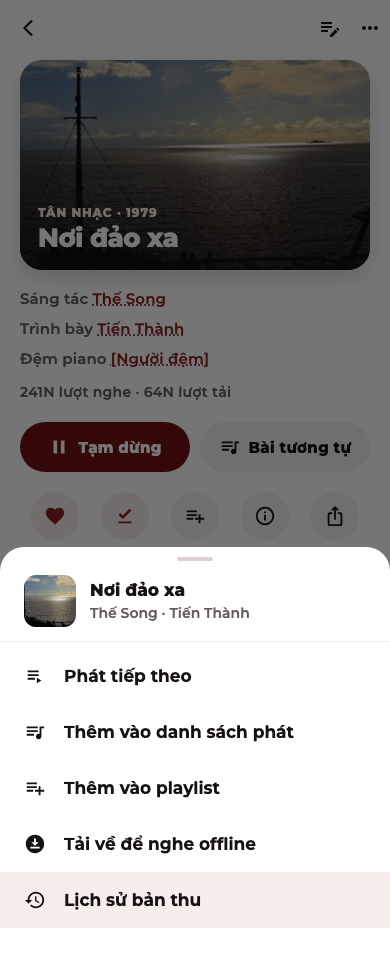
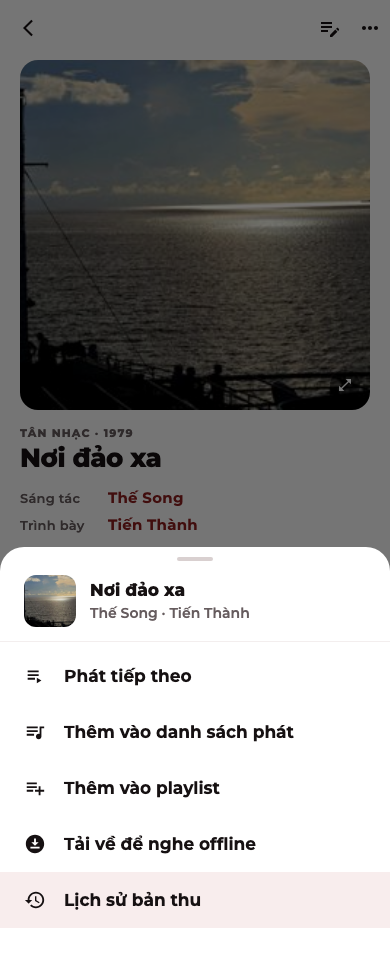
chore(canvas): Chi tiết bài hát khớp app — đầu trang ảnh vuông + tác giả dạng bảng, hàng Thích/Trả lời bình luận như app; dời các hàng dưới xuống 200px

diff --git a/design/canvas/project/BaiHat.dc.html b/design/canvas/project/BaiHat.dc.html
@@ -14,7 +14,7 @@ body{margin:0}
 a{color:#8E1F1F;text-decoration:none}a:hover{color:#711313}
 </style>
 </helmet>
-<div style="width: 390px; height: 4630px; background: #FFFFFF; font-family: Montserrat, sans-serif; letter-spacing: 0.25px; color: #161112; display: flex; flex-direction: column; overflow: hidden">
+<div style="width: 390px; height: 4800px; background: #FFFFFF; font-family: Montserrat, sans-serif; letter-spacing: 0.25px; color: #161112; display: flex; flex-direction: column; overflow: hidden">
 
 <!-- App bar (title appears only after scrolling past the hero) -->
 <div style="height: 56px; flex-shrink: 0; display: flex; align-items: center; justify-content: space-between; padding: 0 0 0 4px">
@@ -27,11 +27,12 @@ a{color:#8E1F1F;text-decoration:none}a:hover{color:#711313}
 
 <div style="padding: 4px 20px 0 20px; display: flex; flex-direction: column">
 
-<!-- Hero (PA7): băng ảnh rộng hết bề ngang, cao 210, gradient tối ở đáy; loại bài + tên (≤3 dòng, quá thì "…") đè lên đáy ảnh -->
-<div style="position: relative; height: 210px; border-radius: 22px; overflow: hidden; box-shadow: 0 8px 20px rgba(0,0,0,0.14)"><img src="/_blob/15d021a625e44f0e9ff37aae395a5ec2" alt="Ảnh bài hát Nơi đảo xa" style="position: absolute; inset: 0; width: 100%; height: 100%; object-fit: cover"><div style="position: absolute; inset: 0; background: linear-gradient(180deg, rgba(22,17,18,0) 30%, rgba(22,17,18,0.82) 100%)"></div><div style="position: absolute; left: 18px; right: 18px; bottom: 16px; display: flex; flex-direction: column"><span style="font-size: 12px; font-weight: 800; letter-spacing: 0.9px; color: #F6E8DE; line-height: 1.25">TÂN NHẠC · 1979</span><span style="margin-top: 4px; font-size: 26px; font-weight: 800; line-height: 1.15; letter-spacing: -0.52px; color: #FFFFFF; display: -webkit-box; -webkit-line-clamp: 3; -webkit-box-orient: vertical; overflow: hidden">Nơi đảo xa</span></div></div>
-
-<!-- Credits: mỗi dòng hết bề ngang, tên dài/nhiều người thì tự xuống dòng -->
-<div style="margin-top: 14px"><div style="font-size: 15px; font-weight: 600; line-height: 26px; padding: 2px 0; letter-spacing: 0.12px; color: #4F4547"><span style="color: #665C5E">Sáng tác </span><a href="NgheSi.dc.html" style="color: #8E1F1F; text-decoration: underline dotted #711313">Thế Song</a></div><div style="font-size: 15px; font-weight: 600; line-height: 26px; padding: 2px 0; letter-spacing: 0.12px; color: #4F4547"><span style="color: #665C5E">Trình bày </span><a href="NgheSi.dc.html" style="color: #8E1F1F; text-decoration: underline dotted #711313">Tiến Thành</a></div><div style="font-size: 15px; font-weight: 600; line-height: 26px; padding: 2px 0; letter-spacing: 0.12px; color: #4F4547"><span style="color: #665C5E">Đệm piano </span><a href="NgheSi.dc.html" style="color: #8E1F1F; text-decoration: underline dotted #711313">[Người đệm]</a></div></div>
+<!-- Đầu trang (chốt 12/11, xem bảng "Bài hát · Phần đầu trang mobile"): ảnh vuông bo 18, không bóng, nút ⤢ góc dưới phải; không có ảnh → bìa đỏ rượu có rãnh đĩa than. Dòng trên: loại · năm · ghi chú; tên bài 26; tác giả dạng bảng, không gạch chân -->
+<div style="position: relative; width: 350px; height: 350px; border-radius: 18px; overflow: hidden"><img src="/_blob/15d021a625e44f0e9ff37aae395a5ec2" alt="Ảnh bài hát Nơi đảo xa" style="width: 100%; height: 100%; object-fit: cover; display: block"><span style="position: absolute; right: 10px; bottom: 10px; width: 30px; height: 30px; border-radius: 15px; background: rgba(0,0,0,.45); display: flex; align-items: center; justify-content: center"><svg width="16" height="16" viewBox="0 0 24 24" fill="#fff" aria-hidden="true"><path d="M21 11V3h-8l3.29 3.29-10 10L3 13v8h8l-3.29-3.29 10-10z"></path></svg></span></div>
+<div style="margin-top: 16px; font-size: 11px; font-weight: 800; letter-spacing: 1.1px; color: #665C5E">TÂN NHẠC · 1979</div>
+<div style="margin-top: 4px; font-size: 26px; font-weight: 800; line-height: 1.15; letter-spacing: -0.4px; color: #161112">Nơi đảo xa</div>
+<!-- Credits: bảng 2 cột (nhãn 78px · tên), tên dài/nhiều người tự xuống dòng -->
+<div style="margin-top: 10px"><div style="display: flex; align-items: flex-start; gap: 10px; padding: 3px 0"><span style="width: 78px; flex-shrink: 0; padding-top: 3px; font-size: 13px; font-weight: 600; color: #665C5E">Sáng tác</span><a href="NgheSi.dc.html" style="flex: 1; min-width: 0; font-size: 15px; font-weight: 700; line-height: 1.4; color: #8E1F1F; text-decoration: none">Thế Song</a></div><div style="display: flex; align-items: flex-start; gap: 10px; padding: 3px 0"><span style="width: 78px; flex-shrink: 0; padding-top: 3px; font-size: 13px; font-weight: 600; color: #665C5E">Trình bày</span><a href="NgheSi.dc.html" style="flex: 1; min-width: 0; font-size: 15px; font-weight: 700; line-height: 1.4; color: #8E1F1F; text-decoration: none">Tiến Thành</a></div></div>
 <div style="margin-top: 8px; font-size: 14px; font-weight: 600; line-height: 1.45; color: #665C5E">241N lượt nghe · 64N lượt tải</div><!-- Nguồn, người đóng góp, ngày đăng… ở ⋯ → "Thông tin bài hát" -->
 
 <!-- Primary buttons -->
@@ -139,9 +140,9 @@ a{color:#8E1F1F;text-decoration:none}a:hover{color:#711313}
 <button style="margin-left: 6px; min-width: 64px; min-height: 40px; padding: 0 16px; border-radius: 24px; border: none; background: #711313; color: #FFFFFF; font-family: Montserrat, sans-serif; letter-spacing: 0.25px; font-size: 16px; font-weight: 700; display: flex; align-items: center; gap: 8px; flex-shrink: 0"><svg width="18" height="18" viewBox="0 0 24 24" fill="currentColor" aria-hidden="true"><path d="M2.01 21L23 12 2.01 3 2 10l15 2-15 2z"></path></svg>Đăng</button>
 </div>
 <div style="margin-top: 21.5px">
-<div style="display: flex; align-items: flex-start; margin-bottom: 19px"><a href="ThanhVien.dc.html" aria-label="Xuân Hương"><span aria-hidden="true" style="width: 36px; height: 36px; border-radius: 18px; flex-shrink: 0; background: linear-gradient(135deg, #4A0C0C, #8E1F1F); color: #FFFFFF; display: flex; align-items: center; justify-content: center; font-size: 15px; font-weight: 800">X</span></a><div style="flex: 1; min-width: 0; margin-left: 10px"><div style="display: flex; flex-wrap: wrap; align-items: center; gap: 4px 6px"><a href="ThanhVien.dc.html" style="font-size: 15px; font-weight: 700; color: #161112">Xuân Hương</a><span style="font-size: 13px; font-weight: 600; color: #665C5E">4 tháng trước</span></div><div style="margin-top: 7.5px; font-size: 16px; line-height: 1.5; color: #161112">Chất giọng đẹp cùng cách thể hiện rất tha thiết, Nơi đảo xa của NS Tiến Thành vẫn là khúc ca hay nhất, xúc động nhất về mảnh đất thiêng liêng của Tổ quốc. Đối với những người đã từng nghe anh hát thời đó, bài hát còn gợi về một thời kì đã xa, thời mà hình ảnh người lính vô cùng đẹp đẽ.</div><div style="margin-top: 11px; display: flex; align-items: center"><button style="min-height: 48px; min-width: 48px; padding: 0 6px; border: none; background: transparent; font-family: Montserrat, sans-serif; letter-spacing: 0.25px; display: flex; align-items: center; gap: 6px; font-size: 14px; font-weight: 600; color: #4F4547"><svg width="20" height="20" viewBox="0 0 24 24" fill="#665C5E" aria-hidden="true"><path d="M16.5 3c-1.74 0-3.41.81-4.5 2.09C10.91 3.81 9.24 3 7.5 3 4.42 3 2 5.42 2 8.5c0 3.78 3.4 6.86 8.55 11.54L12 21.35l1.45-1.32C18.6 15.36 22 12.28 22 8.5 22 5.42 19.58 3 16.5 3zm-4.4 15.55l-.1.1-.1-.1C7.14 14.24 4 11.39 4 8.5 4 6.5 5.5 5 7.5 5c1.54 0 3.04.99 3.57 2.36h1.87C13.46 5.99 14.96 5 16.5 5c2 0 3.5 1.5 3.5 3.5 0 2.89-3.14 5.74-7.9 10.05z"></path></svg>Thích</button><button style="min-height: 48px; min-width: 48px; padding: 0 6px; border: none; background: transparent; font-family: Montserrat, sans-serif; letter-spacing: 0.25px; display: flex; align-items: center; gap: 6px; font-size: 14px; font-weight: 600; color: #4F4547"><svg width="20" height="20" viewBox="0 0 24 24" fill="#665C5E" aria-hidden="true"><path d="M10 9V5l-7 7 7 7v-4.1c5 0 8.5 1.6 11 5.1-1-5-4-10-11-11z"></path></svg>Trả lời</button><span style="flex: 1"></span><button aria-label="Tuỳ chọn bình luận" style="width: 48px; height: 48px; border: none; background: transparent; padding: 0; display: flex; align-items: center; justify-content: center; color: #665C5E"><svg width="22" height="22" viewBox="0 0 24 24" fill="currentColor" aria-hidden="true"><path d="M12 8c1.1 0 2-.9 2-2s-.9-2-2-2-2 .9-2 2 .9 2 2 2zm0 2c-1.1 0-2 .9-2 2s.9 2 2 2 2-.9 2-2-.9-2-2-2zm0 6c-1.1 0-2 .9-2 2s.9 2 2 2 2-.9 2-2-.9-2-2-2z"></path></svg></button></div></div></div>
-<div style="display: flex; align-items: flex-start; margin-bottom: 19px"><a href="ThanhVien.dc.html" aria-label="Monsieur Theodore"><span aria-hidden="true" style="width: 36px; height: 36px; border-radius: 18px; flex-shrink: 0; background: linear-gradient(135deg, #4A0C0C, #8E1F1F); color: #FFFFFF; display: flex; align-items: center; justify-content: center; font-size: 15px; font-weight: 800">M</span></a><div style="flex: 1; min-width: 0; margin-left: 10px"><div style="display: flex; flex-wrap: wrap; align-items: center; gap: 4px 6px"><a href="ThanhVien.dc.html" style="font-size: 15px; font-weight: 700; color: #161112">Monsieur Theodore</a><span style="font-size: 13px; font-weight: 600; color: #665C5E">4 tháng trước</span></div><div style="margin-top: 11px; font-size: 16px; line-height: 1.5; color: #161112"><span role="img" aria-label="Ảnh bản nhạc viết tay Nơi đảo xa" style="display: block; width: 134px; height: 200px; border-radius: 10px; background: #EDE9E8 repeating-linear-gradient(180deg, transparent 0 9px, #CFC6C6 9px 10px); margin: 2px 0"></span></div><div style="margin-top: 11px; display: flex; align-items: center"><button style="min-height: 48px; min-width: 48px; padding: 0 6px; border: none; background: transparent; font-family: Montserrat, sans-serif; letter-spacing: 0.25px; display: flex; align-items: center; gap: 6px; font-size: 14px; font-weight: 600; color: #4F4547"><svg width="20" height="20" viewBox="0 0 24 24" fill="#665C5E" aria-hidden="true"><path d="M16.5 3c-1.74 0-3.41.81-4.5 2.09C10.91 3.81 9.24 3 7.5 3 4.42 3 2 5.42 2 8.5c0 3.78 3.4 6.86 8.55 11.54L12 21.35l1.45-1.32C18.6 15.36 22 12.28 22 8.5 22 5.42 19.58 3 16.5 3zm-4.4 15.55l-.1.1-.1-.1C7.14 14.24 4 11.39 4 8.5 4 6.5 5.5 5 7.5 5c1.54 0 3.04.99 3.57 2.36h1.87C13.46 5.99 14.96 5 16.5 5c2 0 3.5 1.5 3.5 3.5 0 2.89-3.14 5.74-7.9 10.05z"></path></svg>Thích</button><button style="min-height: 48px; min-width: 48px; padding: 0 6px; border: none; background: transparent; font-family: Montserrat, sans-serif; letter-spacing: 0.25px; display: flex; align-items: center; gap: 6px; font-size: 14px; font-weight: 600; color: #4F4547"><svg width="20" height="20" viewBox="0 0 24 24" fill="#665C5E" aria-hidden="true"><path d="M10 9V5l-7 7 7 7v-4.1c5 0 8.5 1.6 11 5.1-1-5-4-10-11-11z"></path></svg>Trả lời</button><span style="flex: 1"></span><button aria-label="Tuỳ chọn bình luận" style="width: 48px; height: 48px; border: none; background: transparent; padding: 0; display: flex; align-items: center; justify-content: center; color: #665C5E"><svg width="22" height="22" viewBox="0 0 24 24" fill="currentColor" aria-hidden="true"><path d="M12 8c1.1 0 2-.9 2-2s-.9-2-2-2-2 .9-2 2 .9 2 2 2zm0 2c-1.1 0-2 .9-2 2s.9 2 2 2 2-.9 2-2-.9-2-2-2zm0 6c-1.1 0-2 .9-2 2s.9 2 2 2 2-.9 2-2-.9-2-2-2z"></path></svg></button></div></div></div>
-<div style="display: flex; align-items: flex-start; margin-bottom: 19px"><a href="ThanhVien.dc.html" aria-label="lahongthang"><span aria-hidden="true" style="width: 36px; height: 36px; border-radius: 18px; flex-shrink: 0; background: #EDE9E8; display: flex; align-items: center; justify-content: center"><svg width="16" height="16" viewBox="0 0 24 24" fill="#665C5E" aria-hidden="true"><path d="M12 12c2.21 0 4-1.79 4-4s-1.79-4-4-4-4 1.79-4 4 1.79 4 4 4zm0 2c-2.67 0-8 1.34-8 4v2h16v-2c0-2.66-5.33-4-8-4z"></path></svg></span></a><div style="flex: 1; min-width: 0; margin-left: 10px"><div style="display: flex; flex-wrap: wrap; align-items: center; gap: 4px 6px"><a href="ThanhVien.dc.html" style="font-size: 15px; font-weight: 700; color: #161112">lahongthang</a><span style="font-size: 13px; font-weight: 600; color: #665C5E">7 tháng trước</span></div><div style="margin-top: 7.5px; font-size: 16px; line-height: 1.5; color: #161112">Bây giờ bài này có rất nhiều phiên bản… [Nội dung bình luận]</div><div style="margin-top: 11px; display: flex; align-items: center"><button style="min-height: 48px; min-width: 48px; padding: 0 6px; border: none; background: transparent; font-family: Montserrat, sans-serif; letter-spacing: 0.25px; display: flex; align-items: center; gap: 6px; font-size: 14px; font-weight: 600; color: #4F4547"><svg width="20" height="20" viewBox="0 0 24 24" fill="#665C5E" aria-hidden="true"><path d="M16.5 3c-1.74 0-3.41.81-4.5 2.09C10.91 3.81 9.24 3 7.5 3 4.42 3 2 5.42 2 8.5c0 3.78 3.4 6.86 8.55 11.54L12 21.35l1.45-1.32C18.6 15.36 22 12.28 22 8.5 22 5.42 19.58 3 16.5 3zm-4.4 15.55l-.1.1-.1-.1C7.14 14.24 4 11.39 4 8.5 4 6.5 5.5 5 7.5 5c1.54 0 3.04.99 3.57 2.36h1.87C13.46 5.99 14.96 5 16.5 5c2 0 3.5 1.5 3.5 3.5 0 2.89-3.14 5.74-7.9 10.05z"></path></svg>Thích</button><button style="min-height: 48px; min-width: 48px; padding: 0 6px; border: none; background: transparent; font-family: Montserrat, sans-serif; letter-spacing: 0.25px; display: flex; align-items: center; gap: 6px; font-size: 14px; font-weight: 600; color: #4F4547"><svg width="20" height="20" viewBox="0 0 24 24" fill="#665C5E" aria-hidden="true"><path d="M10 9V5l-7 7 7 7v-4.1c5 0 8.5 1.6 11 5.1-1-5-4-10-11-11z"></path></svg>Trả lời</button><span style="flex: 1"></span><button aria-label="Tuỳ chọn bình luận" style="width: 48px; height: 48px; border: none; background: transparent; padding: 0; display: flex; align-items: center; justify-content: center; color: #665C5E"><svg width="22" height="22" viewBox="0 0 24 24" fill="currentColor" aria-hidden="true"><path d="M12 8c1.1 0 2-.9 2-2s-.9-2-2-2-2 .9-2 2 .9 2 2 2zm0 2c-1.1 0-2 .9-2 2s.9 2 2 2 2-.9 2-2-.9-2-2-2zm0 6c-1.1 0-2 .9-2 2s.9 2 2 2 2-.9 2-2-.9-2-2-2z"></path></svg></button></div></div></div>
+<div style="display: flex; align-items: flex-start; margin-bottom: 19px"><a href="ThanhVien.dc.html" aria-label="Xuân Hương"><span aria-hidden="true" style="width: 36px; height: 36px; border-radius: 18px; flex-shrink: 0; background: linear-gradient(135deg, #4A0C0C, #8E1F1F); color: #FFFFFF; display: flex; align-items: center; justify-content: center; font-size: 15px; font-weight: 800">X</span></a><div style="flex: 1; min-width: 0; margin-left: 10px"><div style="display: flex; flex-wrap: wrap; align-items: center; gap: 4px 6px"><a href="ThanhVien.dc.html" style="font-size: 15px; font-weight: 700; color: #161112">Xuân Hương</a><span style="font-size: 13px; font-weight: 600; color: #665C5E">4 tháng trước</span></div><div style="margin-top: 7.5px; font-size: 16px; line-height: 1.5; color: #161112">Chất giọng đẹp cùng cách thể hiện rất tha thiết, Nơi đảo xa của NS Tiến Thành vẫn là khúc ca hay nhất, xúc động nhất về mảnh đất thiêng liêng của Tổ quốc. Đối với những người đã từng nghe anh hát thời đó, bài hát còn gợi về một thời kì đã xa, thời mà hình ảnh người lính vô cùng đẹp đẽ.</div><div style="margin-top: 11px; display: flex; align-items: center"><button style="min-height: 48px; min-width: 48px; padding: 0 6px; border: none; background: transparent; font-family: Montserrat, sans-serif; letter-spacing: 0.25px; display: flex; align-items: center; gap: 6px; font-size: 14px; font-weight: 600; color: #4F4547"><svg width="17" height="17" viewBox="0 0 24 24" fill="#665C5E" aria-hidden="true"><path d="M16.5 3c-1.74 0-3.41.81-4.5 2.09C10.91 3.81 9.24 3 7.5 3 4.42 3 2 5.42 2 8.5c0 3.78 3.4 6.86 8.55 11.54L12 21.35l1.45-1.32C18.6 15.36 22 12.28 22 8.5 22 5.42 19.58 3 16.5 3zm-4.4 15.55l-.1.1-.1-.1C7.14 14.24 4 11.39 4 8.5 4 6.5 5.5 5 7.5 5c1.54 0 3.04.99 3.57 2.36h1.87C13.46 5.99 14.96 5 16.5 5c2 0 3.5 1.5 3.5 3.5 0 2.89-3.14 5.74-7.9 10.05z"></path></svg></button><button style="min-height: 48px; min-width: 48px; padding: 0 6px; border: none; background: transparent; font-family: Montserrat, sans-serif; letter-spacing: 0.25px; display: flex; align-items: center; gap: 6px; font-size: 14px; font-weight: 600; color: #4F4547"><span style="font-weight: 700">Trả lời</span></button><span style="flex: 1"></span><button aria-label="Tuỳ chọn bình luận" style="width: 48px; height: 48px; border: none; background: transparent; padding: 0; display: flex; align-items: center; justify-content: center; color: #665C5E"><svg width="22" height="22" viewBox="0 0 24 24" fill="currentColor" aria-hidden="true"><path d="M12 8c1.1 0 2-.9 2-2s-.9-2-2-2-2 .9-2 2 .9 2 2 2zm0 2c-1.1 0-2 .9-2 2s.9 2 2 2 2-.9 2-2-.9-2-2-2zm0 6c-1.1 0-2 .9-2 2s.9 2 2 2 2-.9 2-2-.9-2-2-2z"></path></svg></button></div></div></div>
+<div style="display: flex; align-items: flex-start; margin-bottom: 19px"><a href="ThanhVien.dc.html" aria-label="Monsieur Theodore"><span aria-hidden="true" style="width: 36px; height: 36px; border-radius: 18px; flex-shrink: 0; background: linear-gradient(135deg, #4A0C0C, #8E1F1F); color: #FFFFFF; display: flex; align-items: center; justify-content: center; font-size: 15px; font-weight: 800">M</span></a><div style="flex: 1; min-width: 0; margin-left: 10px"><div style="display: flex; flex-wrap: wrap; align-items: center; gap: 4px 6px"><a href="ThanhVien.dc.html" style="font-size: 15px; font-weight: 700; color: #161112">Monsieur Theodore</a><span style="font-size: 13px; font-weight: 600; color: #665C5E">4 tháng trước</span></div><div style="margin-top: 11px; font-size: 16px; line-height: 1.5; color: #161112"><span role="img" aria-label="Ảnh bản nhạc viết tay Nơi đảo xa" style="display: block; width: 134px; height: 200px; border-radius: 10px; background: #EDE9E8 repeating-linear-gradient(180deg, transparent 0 9px, #CFC6C6 9px 10px); margin: 2px 0"></span></div><div style="margin-top: 11px; display: flex; align-items: center"><button style="min-height: 48px; min-width: 48px; padding: 0 6px; border: none; background: transparent; font-family: Montserrat, sans-serif; letter-spacing: 0.25px; display: flex; align-items: center; gap: 6px; font-size: 14px; font-weight: 600; color: #4F4547"><svg width="17" height="17" viewBox="0 0 24 24" fill="#665C5E" aria-hidden="true"><path d="M16.5 3c-1.74 0-3.41.81-4.5 2.09C10.91 3.81 9.24 3 7.5 3 4.42 3 2 5.42 2 8.5c0 3.78 3.4 6.86 8.55 11.54L12 21.35l1.45-1.32C18.6 15.36 22 12.28 22 8.5 22 5.42 19.58 3 16.5 3zm-4.4 15.55l-.1.1-.1-.1C7.14 14.24 4 11.39 4 8.5 4 6.5 5.5 5 7.5 5c1.54 0 3.04.99 3.57 2.36h1.87C13.46 5.99 14.96 5 16.5 5c2 0 3.5 1.5 3.5 3.5 0 2.89-3.14 5.74-7.9 10.05z"></path></svg></button><button style="min-height: 48px; min-width: 48px; padding: 0 6px; border: none; background: transparent; font-family: Montserrat, sans-serif; letter-spacing: 0.25px; display: flex; align-items: center; gap: 6px; font-size: 14px; font-weight: 600; color: #4F4547"><span style="font-weight: 700">Trả lời</span></button><span style="flex: 1"></span><button aria-label="Tuỳ chọn bình luận" style="width: 48px; height: 48px; border: none; background: transparent; padding: 0; display: flex; align-items: center; justify-content: center; color: #665C5E"><svg width="22" height="22" viewBox="0 0 24 24" fill="currentColor" aria-hidden="true"><path d="M12 8c1.1 0 2-.9 2-2s-.9-2-2-2-2 .9-2 2 .9 2 2 2zm0 2c-1.1 0-2 .9-2 2s.9 2 2 2 2-.9 2-2-.9-2-2-2zm0 6c-1.1 0-2 .9-2 2s.9 2 2 2 2-.9 2-2-.9-2-2-2z"></path></svg></button></div></div></div>
+<div style="display: flex; align-items: flex-start; margin-bottom: 19px"><a href="ThanhVien.dc.html" aria-label="lahongthang"><span aria-hidden="true" style="width: 36px; height: 36px; border-radius: 18px; flex-shrink: 0; background: #EDE9E8; display: flex; align-items: center; justify-content: center"><svg width="16" height="16" viewBox="0 0 24 24" fill="#665C5E" aria-hidden="true"><path d="M12 12c2.21 0 4-1.79 4-4s-1.79-4-4-4-4 1.79-4 4 1.79 4 4 4zm0 2c-2.67 0-8 1.34-8 4v2h16v-2c0-2.66-5.33-4-8-4z"></path></svg></span></a><div style="flex: 1; min-width: 0; margin-left: 10px"><div style="display: flex; flex-wrap: wrap; align-items: center; gap: 4px 6px"><a href="ThanhVien.dc.html" style="font-size: 15px; font-weight: 700; color: #161112">lahongthang</a><span style="font-size: 13px; font-weight: 600; color: #665C5E">7 tháng trước</span></div><div style="margin-top: 7.5px; font-size: 16px; line-height: 1.5; color: #161112">Bây giờ bài này có rất nhiều phiên bản… [Nội dung bình luận]</div><div style="margin-top: 11px; display: flex; align-items: center"><button style="min-height: 48px; min-width: 48px; padding: 0 6px; border: none; background: transparent; font-family: Montserrat, sans-serif; letter-spacing: 0.25px; display: flex; align-items: center; gap: 6px; font-size: 14px; font-weight: 600; color: #4F4547"><svg width="17" height="17" viewBox="0 0 24 24" fill="#665C5E" aria-hidden="true"><path d="M16.5 3c-1.74 0-3.41.81-4.5 2.09C10.91 3.81 9.24 3 7.5 3 4.42 3 2 5.42 2 8.5c0 3.78 3.4 6.86 8.55 11.54L12 21.35l1.45-1.32C18.6 15.36 22 12.28 22 8.5 22 5.42 19.58 3 16.5 3zm-4.4 15.55l-.1.1-.1-.1C7.14 14.24 4 11.39 4 8.5 4 6.5 5.5 5 7.5 5c1.54 0 3.04.99 3.57 2.36h1.87C13.46 5.99 14.96 5 16.5 5c2 0 3.5 1.5 3.5 3.5 0 2.89-3.14 5.74-7.9 10.05z"></path></svg></button><button style="min-height: 48px; min-width: 48px; padding: 0 6px; border: none; background: transparent; font-family: Montserrat, sans-serif; letter-spacing: 0.25px; display: flex; align-items: center; gap: 6px; font-size: 14px; font-weight: 600; color: #4F4547"><span style="font-weight: 700">Trả lời</span></button><span style="flex: 1"></span><button aria-label="Tuỳ chọn bình luận" style="width: 48px; height: 48px; border: none; background: transparent; padding: 0; display: flex; align-items: center; justify-content: center; color: #665C5E"><svg width="22" height="22" viewBox="0 0 24 24" fill="currentColor" aria-hidden="true"><path d="M12 8c1.1 0 2-.9 2-2s-.9-2-2-2-2 .9-2 2 .9 2 2 2zm0 2c-1.1 0-2 .9-2 2s.9 2 2 2 2-.9 2-2-.9-2-2-2zm0 6c-1.1 0-2 .9-2 2s.9 2 2 2 2-.9 2-2-.9-2-2-2z"></path></svg></button></div></div></div>
 </div>
 <button style="margin-top: 8px; width: 100%; height: 50px; border-radius: 25px; border: none; background: #F4F1F0; color: #161112; font-family: Montserrat, sans-serif; letter-spacing: 0.25px; font-size: 15px; font-weight: 800">Xem thêm bình luận (97)</button>
 </div>
@@ -153,7 +154,7 @@ a{color:#8E1F1F;text-decoration:none}a:hover{color:#711313}
 <dc-import name="TabBar" active="home" hint-size="390px,61px"></dc-import>
 </div>
 </x-dc>
-<script type="text/x-dc" data-dc-script data-props='{"$preview":{"width":390,"height":4630}}'>
+<script type="text/x-dc" data-dc-script data-props='{"$preview":{"width":390,"height":4800}}'>
 class Component extends DCLogic {
 renderVals() {
 return {};

diff --git a/design/canvas/project/BaiHat_Menu.dc.html b/design/canvas/project/BaiHat_Menu.dc.html
@@ -30,11 +30,12 @@ a{color:#8E1F1F;text-decoration:none}a:hover{color:#711313}
 
 <div style="padding: 4px 20px 0 20px; display: flex; flex-direction: column">
 
-<!-- Hero (PA7): băng ảnh rộng hết bề ngang, cao 210, gradient tối ở đáy; loại bài + tên (≤3 dòng, quá thì "…") đè lên đáy ảnh -->
-<div style="position: relative; height: 210px; border-radius: 22px; overflow: hidden; box-shadow: 0 8px 20px rgba(0,0,0,0.14)"><img src="/_blob/15d021a625e44f0e9ff37aae395a5ec2" alt="Ảnh bài hát Nơi đảo xa" style="position: absolute; inset: 0; width: 100%; height: 100%; object-fit: cover"><div style="position: absolute; inset: 0; background: linear-gradient(180deg, rgba(22,17,18,0) 30%, rgba(22,17,18,0.82) 100%)"></div><div style="position: absolute; left: 18px; right: 18px; bottom: 16px; display: flex; flex-direction: column"><span style="font-size: 12px; font-weight: 800; letter-spacing: 0.9px; color: #F6E8DE; line-height: 1.25">TÂN NHẠC · 1979</span><span style="margin-top: 4px; font-size: 26px; font-weight: 800; line-height: 1.15; letter-spacing: -0.52px; color: #FFFFFF; display: -webkit-box; -webkit-line-clamp: 3; -webkit-box-orient: vertical; overflow: hidden">Nơi đảo xa</span></div></div>
-
-<!-- Credits: mỗi dòng hết bề ngang, tên dài/nhiều người thì tự xuống dòng -->
-<div style="margin-top: 14px"><div style="font-size: 15px; font-weight: 600; line-height: 26px; padding: 2px 0; letter-spacing: 0.12px; color: #4F4547"><span style="color: #665C5E">Sáng tác </span><a href="NgheSi.dc.html" style="color: #8E1F1F; text-decoration: underline dotted #711313">Thế Song</a></div><div style="font-size: 15px; font-weight: 600; line-height: 26px; padding: 2px 0; letter-spacing: 0.12px; color: #4F4547"><span style="color: #665C5E">Trình bày </span><a href="NgheSi.dc.html" style="color: #8E1F1F; text-decoration: underline dotted #711313">Tiến Thành</a></div><div style="font-size: 15px; font-weight: 600; line-height: 26px; padding: 2px 0; letter-spacing: 0.12px; color: #4F4547"><span style="color: #665C5E">Đệm piano </span><a href="NgheSi.dc.html" style="color: #8E1F1F; text-decoration: underline dotted #711313">[Người đệm]</a></div></div>
+<!-- Đầu trang (chốt 12/11, xem bảng "Bài hát · Phần đầu trang mobile"): ảnh vuông bo 18, không bóng, nút ⤢ góc dưới phải; không có ảnh → bìa đỏ rượu có rãnh đĩa than. Dòng trên: loại · năm · ghi chú; tên bài 26; tác giả dạng bảng, không gạch chân -->
+<div style="position: relative; width: 350px; height: 350px; border-radius: 18px; overflow: hidden"><img src="/_blob/15d021a625e44f0e9ff37aae395a5ec2" alt="Ảnh bài hát Nơi đảo xa" style="width: 100%; height: 100%; object-fit: cover; display: block"><span style="position: absolute; right: 10px; bottom: 10px; width: 30px; height: 30px; border-radius: 15px; background: rgba(0,0,0,.45); display: flex; align-items: center; justify-content: center"><svg width="16" height="16" viewBox="0 0 24 24" fill="#fff" aria-hidden="true"><path d="M21 11V3h-8l3.29 3.29-10 10L3 13v8h8l-3.29-3.29 10-10z"></path></svg></span></div>
+<div style="margin-top: 16px; font-size: 11px; font-weight: 800; letter-spacing: 1.1px; color: #665C5E">TÂN NHẠC · 1979</div>
+<div style="margin-top: 4px; font-size: 26px; font-weight: 800; line-height: 1.15; letter-spacing: -0.4px; color: #161112">Nơi đảo xa</div>
+<!-- Credits: bảng 2 cột (nhãn 78px · tên), tên dài/nhiều người tự xuống dòng -->
+<div style="margin-top: 10px"><div style="display: flex; align-items: flex-start; gap: 10px; padding: 3px 0"><span style="width: 78px; flex-shrink: 0; padding-top: 3px; font-size: 13px; font-weight: 600; color: #665C5E">Sáng tác</span><a href="NgheSi.dc.html" style="flex: 1; min-width: 0; font-size: 15px; font-weight: 700; line-height: 1.4; color: #8E1F1F; text-decoration: none">Thế Song</a></div><div style="display: flex; align-items: flex-start; gap: 10px; padding: 3px 0"><span style="width: 78px; flex-shrink: 0; padding-top: 3px; font-size: 13px; font-weight: 600; color: #665C5E">Trình bày</span><a href="NgheSi.dc.html" style="flex: 1; min-width: 0; font-size: 15px; font-weight: 700; line-height: 1.4; color: #8E1F1F; text-decoration: none">Tiến Thành</a></div></div>
 <div style="margin-top: 8px; font-size: 14px; font-weight: 600; line-height: 1.45; color: #665C5E">241N lượt nghe · 64N lượt tải</div><!-- Nguồn, người đóng góp, ngày đăng… ở ⋯ → "Thông tin bài hát" -->
 
 <!-- Primary buttons -->
@@ -142,9 +143,9 @@ a{color:#8E1F1F;text-decoration:none}a:hover{color:#711313}
 <button style="margin-left: 6px; min-width: 64px; min-height: 40px; padding: 0 16px; border-radius: 24px; border: none; background: #711313; color: #FFFFFF; font-family: Montserrat, sans-serif; letter-spacing: 0.25px; font-size: 16px; font-weight: 700; display: flex; align-items: center; gap: 8px; flex-shrink: 0"><svg width="18" height="18" viewBox="0 0 24 24" fill="currentColor" aria-hidden="true"><path d="M2.01 21L23 12 2.01 3 2 10l15 2-15 2z"></path></svg>Đăng</button>
 </div>
 <div style="margin-top: 21.5px">
-<div style="display: flex; align-items: flex-start; margin-bottom: 19px"><a href="ThanhVien.dc.html" aria-label="Xuân Hương"><span aria-hidden="true" style="width: 36px; height: 36px; border-radius: 18px; flex-shrink: 0; background: linear-gradient(135deg, #4A0C0C, #8E1F1F); color: #FFFFFF; display: flex; align-items: center; justify-content: center; font-size: 15px; font-weight: 800">X</span></a><div style="flex: 1; min-width: 0; margin-left: 10px"><div style="display: flex; flex-wrap: wrap; align-items: center; gap: 4px 6px"><a href="ThanhVien.dc.html" style="font-size: 15px; font-weight: 700; color: #161112">Xuân Hương</a><span style="font-size: 13px; font-weight: 600; color: #665C5E">4 tháng trước</span></div><div style="margin-top: 7.5px; font-size: 16px; line-height: 1.5; color: #161112">Chất giọng đẹp cùng cách thể hiện rất tha thiết, Nơi đảo xa của NS Tiến Thành vẫn là khúc ca hay nhất, xúc động nhất về mảnh đất thiêng liêng của Tổ quốc. Đối với những người đã từng nghe anh hát thời đó, bài hát còn gợi về một thời kì đã xa, thời mà hình ảnh người lính vô cùng đẹp đẽ.</div><div style="margin-top: 11px; display: flex; align-items: center"><button style="min-height: 48px; min-width: 48px; padding: 0 6px; border: none; background: transparent; font-family: Montserrat, sans-serif; letter-spacing: 0.25px; display: flex; align-items: center; gap: 6px; font-size: 14px; font-weight: 600; color: #4F4547"><svg width="20" height="20" viewBox="0 0 24 24" fill="#665C5E" aria-hidden="true"><path d="M16.5 3c-1.74 0-3.41.81-4.5 2.09C10.91 3.81 9.24 3 7.5 3 4.42 3 2 5.42 2 8.5c0 3.78 3.4 6.86 8.55 11.54L12 21.35l1.45-1.32C18.6 15.36 22 12.28 22 8.5 22 5.42 19.58 3 16.5 3zm-4.4 15.55l-.1.1-.1-.1C7.14 14.24 4 11.39 4 8.5 4 6.5 5.5 5 7.5 5c1.54 0 3.04.99 3.57 2.36h1.87C13.46 5.99 14.96 5 16.5 5c2 0 3.5 1.5 3.5 3.5 0 2.89-3.14 5.74-7.9 10.05z"></path></svg>Thích</button><button style="min-height: 48px; min-width: 48px; padding: 0 6px; border: none; background: transparent; font-family: Montserrat, sans-serif; letter-spacing: 0.25px; display: flex; align-items: center; gap: 6px; font-size: 14px; font-weight: 600; color: #4F4547"><svg width="20" height="20" viewBox="0 0 24 24" fill="#665C5E" aria-hidden="true"><path d="M10 9V5l-7 7 7 7v-4.1c5 0 8.5 1.6 11 5.1-1-5-4-10-11-11z"></path></svg>Trả lời</button><span style="flex: 1"></span><button aria-label="Tuỳ chọn bình luận" style="width: 48px; height: 48px; border: none; background: transparent; padding: 0; display: flex; align-items: center; justify-content: center; color: #665C5E"><svg width="22" height="22" viewBox="0 0 24 24" fill="currentColor" aria-hidden="true"><path d="M12 8c1.1 0 2-.9 2-2s-.9-2-2-2-2 .9-2 2 .9 2 2 2zm0 2c-1.1 0-2 .9-2 2s.9 2 2 2 2-.9 2-2-.9-2-2-2zm0 6c-1.1 0-2 .9-2 2s.9 2 2 2 2-.9 2-2-.9-2-2-2z"></path></svg></button></div></div></div>
-<div style="display: flex; align-items: flex-start; margin-bottom: 19px"><a href="ThanhVien.dc.html" aria-label="Monsieur Theodore"><span aria-hidden="true" style="width: 36px; height: 36px; border-radius: 18px; flex-shrink: 0; background: linear-gradient(135deg, #4A0C0C, #8E1F1F); color: #FFFFFF; display: flex; align-items: center; justify-content: center; font-size: 15px; font-weight: 800">M</span></a><div style="flex: 1; min-width: 0; margin-left: 10px"><div style="display: flex; flex-wrap: wrap; align-items: center; gap: 4px 6px"><a href="ThanhVien.dc.html" style="font-size: 15px; font-weight: 700; color: #161112">Monsieur Theodore</a><span style="font-size: 13px; font-weight: 600; color: #665C5E">4 tháng trước</span></div><div style="margin-top: 11px; font-size: 16px; line-height: 1.5; color: #161112"><span role="img" aria-label="Ảnh bản nhạc viết tay Nơi đảo xa" style="display: block; width: 134px; height: 200px; border-radius: 10px; background: #EDE9E8 repeating-linear-gradient(180deg, transparent 0 9px, #CFC6C6 9px 10px); margin: 2px 0"></span></div><div style="margin-top: 11px; display: flex; align-items: center"><button style="min-height: 48px; min-width: 48px; padding: 0 6px; border: none; background: transparent; font-family: Montserrat, sans-serif; letter-spacing: 0.25px; display: flex; align-items: center; gap: 6px; font-size: 14px; font-weight: 600; color: #4F4547"><svg width="20" height="20" viewBox="0 0 24 24" fill="#665C5E" aria-hidden="true"><path d="M16.5 3c-1.74 0-3.41.81-4.5 2.09C10.91 3.81 9.24 3 7.5 3 4.42 3 2 5.42 2 8.5c0 3.78 3.4 6.86 8.55 11.54L12 21.35l1.45-1.32C18.6 15.36 22 12.28 22 8.5 22 5.42 19.58 3 16.5 3zm-4.4 15.55l-.1.1-.1-.1C7.14 14.24 4 11.39 4 8.5 4 6.5 5.5 5 7.5 5c1.54 0 3.04.99 3.57 2.36h1.87C13.46 5.99 14.96 5 16.5 5c2 0 3.5 1.5 3.5 3.5 0 2.89-3.14 5.74-7.9 10.05z"></path></svg>Thích</button><button style="min-height: 48px; min-width: 48px; padding: 0 6px; border: none; background: transparent; font-family: Montserrat, sans-serif; letter-spacing: 0.25px; display: flex; align-items: center; gap: 6px; font-size: 14px; font-weight: 600; color: #4F4547"><svg width="20" height="20" viewBox="0 0 24 24" fill="#665C5E" aria-hidden="true"><path d="M10 9V5l-7 7 7 7v-4.1c5 0 8.5 1.6 11 5.1-1-5-4-10-11-11z"></path></svg>Trả lời</button><span style="flex: 1"></span><button aria-label="Tuỳ chọn bình luận" style="width: 48px; height: 48px; border: none; background: transparent; padding: 0; display: flex; align-items: center; justify-content: center; color: #665C5E"><svg width="22" height="22" viewBox="0 0 24 24" fill="currentColor" aria-hidden="true"><path d="M12 8c1.1 0 2-.9 2-2s-.9-2-2-2-2 .9-2 2 .9 2 2 2zm0 2c-1.1 0-2 .9-2 2s.9 2 2 2 2-.9 2-2-.9-2-2-2zm0 6c-1.1 0-2 .9-2 2s.9 2 2 2 2-.9 2-2-.9-2-2-2z"></path></svg></button></div></div></div>
-<div style="display: flex; align-items: flex-start; margin-bottom: 19px"><a href="ThanhVien.dc.html" aria-label="lahongthang"><span aria-hidden="true" style="width: 36px; height: 36px; border-radius: 18px; flex-shrink: 0; background: #EDE9E8; display: flex; align-items: center; justify-content: center"><svg width="16" height="16" viewBox="0 0 24 24" fill="#665C5E" aria-hidden="true"><path d="M12 12c2.21 0 4-1.79 4-4s-1.79-4-4-4-4 1.79-4 4 1.79 4 4 4zm0 2c-2.67 0-8 1.34-8 4v2h16v-2c0-2.66-5.33-4-8-4z"></path></svg></span></a><div style="flex: 1; min-width: 0; margin-left: 10px"><div style="display: flex; flex-wrap: wrap; align-items: center; gap: 4px 6px"><a href="ThanhVien.dc.html" style="font-size: 15px; font-weight: 700; color: #161112">lahongthang</a><span style="font-size: 13px; font-weight: 600; color: #665C5E">7 tháng trước</span></div><div style="margin-top: 7.5px; font-size: 16px; line-height: 1.5; color: #161112">Bây giờ bài này có rất nhiều phiên bản… [Nội dung bình luận]</div><div style="margin-top: 11px; display: flex; align-items: center"><button style="min-height: 48px; min-width: 48px; padding: 0 6px; border: none; background: transparent; font-family: Montserrat, sans-serif; letter-spacing: 0.25px; display: flex; align-items: center; gap: 6px; font-size: 14px; font-weight: 600; color: #4F4547"><svg width="20" height="20" viewBox="0 0 24 24" fill="#665C5E" aria-hidden="true"><path d="M16.5 3c-1.74 0-3.41.81-4.5 2.09C10.91 3.81 9.24 3 7.5 3 4.42 3 2 5.42 2 8.5c0 3.78 3.4 6.86 8.55 11.54L12 21.35l1.45-1.32C18.6 15.36 22 12.28 22 8.5 22 5.42 19.58 3 16.5 3zm-4.4 15.55l-.1.1-.1-.1C7.14 14.24 4 11.39 4 8.5 4 6.5 5.5 5 7.5 5c1.54 0 3.04.99 3.57 2.36h1.87C13.46 5.99 14.96 5 16.5 5c2 0 3.5 1.5 3.5 3.5 0 2.89-3.14 5.74-7.9 10.05z"></path></svg>Thích</button><button style="min-height: 48px; min-width: 48px; padding: 0 6px; border: none; background: transparent; font-family: Montserrat, sans-serif; letter-spacing: 0.25px; display: flex; align-items: center; gap: 6px; font-size: 14px; font-weight: 600; color: #4F4547"><svg width="20" height="20" viewBox="0 0 24 24" fill="#665C5E" aria-hidden="true"><path d="M10 9V5l-7 7 7 7v-4.1c5 0 8.5 1.6 11 5.1-1-5-4-10-11-11z"></path></svg>Trả lời</button><span style="flex: 1"></span><button aria-label="Tuỳ chọn bình luận" style="width: 48px; height: 48px; border: none; background: transparent; padding: 0; display: flex; align-items: center; justify-content: center; color: #665C5E"><svg width="22" height="22" viewBox="0 0 24 24" fill="currentColor" aria-hidden="true"><path d="M12 8c1.1 0 2-.9 2-2s-.9-2-2-2-2 .9-2 2 .9 2 2 2zm0 2c-1.1 0-2 .9-2 2s.9 2 2 2 2-.9 2-2-.9-2-2-2zm0 6c-1.1 0-2 .9-2 2s.9 2 2 2 2-.9 2-2-.9-2-2-2z"></path></svg></button></div></div></div>
+<div style="display: flex; align-items: flex-start; margin-bottom: 19px"><a href="ThanhVien.dc.html" aria-label="Xuân Hương"><span aria-hidden="true" style="width: 36px; height: 36px; border-radius: 18px; flex-shrink: 0; background: linear-gradient(135deg, #4A0C0C, #8E1F1F); color: #FFFFFF; display: flex; align-items: center; justify-content: center; font-size: 15px; font-weight: 800">X</span></a><div style="flex: 1; min-width: 0; margin-left: 10px"><div style="display: flex; flex-wrap: wrap; align-items: center; gap: 4px 6px"><a href="ThanhVien.dc.html" style="font-size: 15px; font-weight: 700; color: #161112">Xuân Hương</a><span style="font-size: 13px; font-weight: 600; color: #665C5E">4 tháng trước</span></div><div style="margin-top: 7.5px; font-size: 16px; line-height: 1.5; color: #161112">Chất giọng đẹp cùng cách thể hiện rất tha thiết, Nơi đảo xa của NS Tiến Thành vẫn là khúc ca hay nhất, xúc động nhất về mảnh đất thiêng liêng của Tổ quốc. Đối với những người đã từng nghe anh hát thời đó, bài hát còn gợi về một thời kì đã xa, thời mà hình ảnh người lính vô cùng đẹp đẽ.</div><div style="margin-top: 11px; display: flex; align-items: center"><button style="min-height: 48px; min-width: 48px; padding: 0 6px; border: none; background: transparent; font-family: Montserrat, sans-serif; letter-spacing: 0.25px; display: flex; align-items: center; gap: 6px; font-size: 14px; font-weight: 600; color: #4F4547"><svg width="17" height="17" viewBox="0 0 24 24" fill="#665C5E" aria-hidden="true"><path d="M16.5 3c-1.74 0-3.41.81-4.5 2.09C10.91 3.81 9.24 3 7.5 3 4.42 3 2 5.42 2 8.5c0 3.78 3.4 6.86 8.55 11.54L12 21.35l1.45-1.32C18.6 15.36 22 12.28 22 8.5 22 5.42 19.58 3 16.5 3zm-4.4 15.55l-.1.1-.1-.1C7.14 14.24 4 11.39 4 8.5 4 6.5 5.5 5 7.5 5c1.54 0 3.04.99 3.57 2.36h1.87C13.46 5.99 14.96 5 16.5 5c2 0 3.5 1.5 3.5 3.5 0 2.89-3.14 5.74-7.9 10.05z"></path></svg></button><button style="min-height: 48px; min-width: 48px; padding: 0 6px; border: none; background: transparent; font-family: Montserrat, sans-serif; letter-spacing: 0.25px; display: flex; align-items: center; gap: 6px; font-size: 14px; font-weight: 600; color: #4F4547"><span style="font-weight: 700">Trả lời</span></button><span style="flex: 1"></span><button aria-label="Tuỳ chọn bình luận" style="width: 48px; height: 48px; border: none; background: transparent; padding: 0; display: flex; align-items: center; justify-content: center; color: #665C5E"><svg width="22" height="22" viewBox="0 0 24 24" fill="currentColor" aria-hidden="true"><path d="M12 8c1.1 0 2-.9 2-2s-.9-2-2-2-2 .9-2 2 .9 2 2 2zm0 2c-1.1 0-2 .9-2 2s.9 2 2 2 2-.9 2-2-.9-2-2-2zm0 6c-1.1 0-2 .9-2 2s.9 2 2 2 2-.9 2-2-.9-2-2-2z"></path></svg></button></div></div></div>
+<div style="display: flex; align-items: flex-start; margin-bottom: 19px"><a href="ThanhVien.dc.html" aria-label="Monsieur Theodore"><span aria-hidden="true" style="width: 36px; height: 36px; border-radius: 18px; flex-shrink: 0; background: linear-gradient(135deg, #4A0C0C, #8E1F1F); color: #FFFFFF; display: flex; align-items: center; justify-content: center; font-size: 15px; font-weight: 800">M</span></a><div style="flex: 1; min-width: 0; margin-left: 10px"><div style="display: flex; flex-wrap: wrap; align-items: center; gap: 4px 6px"><a href="ThanhVien.dc.html" style="font-size: 15px; font-weight: 700; color: #161112">Monsieur Theodore</a><span style="font-size: 13px; font-weight: 600; color: #665C5E">4 tháng trước</span></div><div style="margin-top: 11px; font-size: 16px; line-height: 1.5; color: #161112"><span role="img" aria-label="Ảnh bản nhạc viết tay Nơi đảo xa" style="display: block; width: 134px; height: 200px; border-radius: 10px; background: #EDE9E8 repeating-linear-gradient(180deg, transparent 0 9px, #CFC6C6 9px 10px); margin: 2px 0"></span></div><div style="margin-top: 11px; display: flex; align-items: center"><button style="min-height: 48px; min-width: 48px; padding: 0 6px; border: none; background: transparent; font-family: Montserrat, sans-serif; letter-spacing: 0.25px; display: flex; align-items: center; gap: 6px; font-size: 14px; font-weight: 600; color: #4F4547"><svg width="17" height="17" viewBox="0 0 24 24" fill="#665C5E" aria-hidden="true"><path d="M16.5 3c-1.74 0-3.41.81-4.5 2.09C10.91 3.81 9.24 3 7.5 3 4.42 3 2 5.42 2 8.5c0 3.78 3.4 6.86 8.55 11.54L12 21.35l1.45-1.32C18.6 15.36 22 12.28 22 8.5 22 5.42 19.58 3 16.5 3zm-4.4 15.55l-.1.1-.1-.1C7.14 14.24 4 11.39 4 8.5 4 6.5 5.5 5 7.5 5c1.54 0 3.04.99 3.57 2.36h1.87C13.46 5.99 14.96 5 16.5 5c2 0 3.5 1.5 3.5 3.5 0 2.89-3.14 5.74-7.9 10.05z"></path></svg></button><button style="min-height: 48px; min-width: 48px; padding: 0 6px; border: none; background: transparent; font-family: Montserrat, sans-serif; letter-spacing: 0.25px; display: flex; align-items: center; gap: 6px; font-size: 14px; font-weight: 600; color: #4F4547"><span style="font-weight: 700">Trả lời</span></button><span style="flex: 1"></span><button aria-label="Tuỳ chọn bình luận" style="width: 48px; height: 48px; border: none; background: transparent; padding: 0; display: flex; align-items: center; justify-content: center; color: #665C5E"><svg width="22" height="22" viewBox="0 0 24 24" fill="currentColor" aria-hidden="true"><path d="M12 8c1.1 0 2-.9 2-2s-.9-2-2-2-2 .9-2 2 .9 2 2 2zm0 2c-1.1 0-2 .9-2 2s.9 2 2 2 2-.9 2-2-.9-2-2-2zm0 6c-1.1 0-2 .9-2 2s.9 2 2 2 2-.9 2-2-.9-2-2-2z"></path></svg></button></div></div></div>
+<div style="display: flex; align-items: flex-start; margin-bottom: 19px"><a href="ThanhVien.dc.html" aria-label="lahongthang"><span aria-hidden="true" style="width: 36px; height: 36px; border-radius: 18px; flex-shrink: 0; background: #EDE9E8; display: flex; align-items: center; justify-content: center"><svg width="16" height="16" viewBox="0 0 24 24" fill="#665C5E" aria-hidden="true"><path d="M12 12c2.21 0 4-1.79 4-4s-1.79-4-4-4-4 1.79-4 4 1.79 4 4 4zm0 2c-2.67 0-8 1.34-8 4v2h16v-2c0-2.66-5.33-4-8-4z"></path></svg></span></a><div style="flex: 1; min-width: 0; margin-left: 10px"><div style="display: flex; flex-wrap: wrap; align-items: center; gap: 4px 6px"><a href="ThanhVien.dc.html" style="font-size: 15px; font-weight: 700; color: #161112">lahongthang</a><span style="font-size: 13px; font-weight: 600; color: #665C5E">7 tháng trước</span></div><div style="margin-top: 7.5px; font-size: 16px; line-height: 1.5; color: #161112">Bây giờ bài này có rất nhiều phiên bản… [Nội dung bình luận]</div><div style="margin-top: 11px; display: flex; align-items: center"><button style="min-height: 48px; min-width: 48px; padding: 0 6px; border: none; background: transparent; font-family: Montserrat, sans-serif; letter-spacing: 0.25px; display: flex; align-items: center; gap: 6px; font-size: 14px; font-weight: 600; color: #4F4547"><svg width="17" height="17" viewBox="0 0 24 24" fill="#665C5E" aria-hidden="true"><path d="M16.5 3c-1.74 0-3.41.81-4.5 2.09C10.91 3.81 9.24 3 7.5 3 4.42 3 2 5.42 2 8.5c0 3.78 3.4 6.86 8.55 11.54L12 21.35l1.45-1.32C18.6 15.36 22 12.28 22 8.5 22 5.42 19.58 3 16.5 3zm-4.4 15.55l-.1.1-.1-.1C7.14 14.24 4 11.39 4 8.5 4 6.5 5.5 5 7.5 5c1.54 0 3.04.99 3.57 2.36h1.87C13.46 5.99 14.96 5 16.5 5c2 0 3.5 1.5 3.5 3.5 0 2.89-3.14 5.74-7.9 10.05z"></path></svg></button><button style="min-height: 48px; min-width: 48px; padding: 0 6px; border: none; background: transparent; font-family: Montserrat, sans-serif; letter-spacing: 0.25px; display: flex; align-items: center; gap: 6px; font-size: 14px; font-weight: 600; color: #4F4547"><span style="font-weight: 700">Trả lời</span></button><span style="flex: 1"></span><button aria-label="Tuỳ chọn bình luận" style="width: 48px; height: 48px; border: none; background: transparent; padding: 0; display: flex; align-items: center; justify-content: center; color: #665C5E"><svg width="22" height="22" viewBox="0 0 24 24" fill="currentColor" aria-hidden="true"><path d="M12 8c1.1 0 2-.9 2-2s-.9-2-2-2-2 .9-2 2 .9 2 2 2zm0 2c-1.1 0-2 .9-2 2s.9 2 2 2 2-.9 2-2-.9-2-2-2zm0 6c-1.1 0-2 .9-2 2s.9 2 2 2 2-.9 2-2-.9-2-2-2z"></path></svg></button></div></div></div>
 </div>
 <button style="margin-top: 8px; width: 100%; height: 50px; border-radius: 25px; border: none; background: #F4F1F0; color: #161112; font-family: Montserrat, sans-serif; letter-spacing: 0.25px; font-size: 15px; font-weight: 800">Xem thêm bình luận (97)</button>
 </div>
